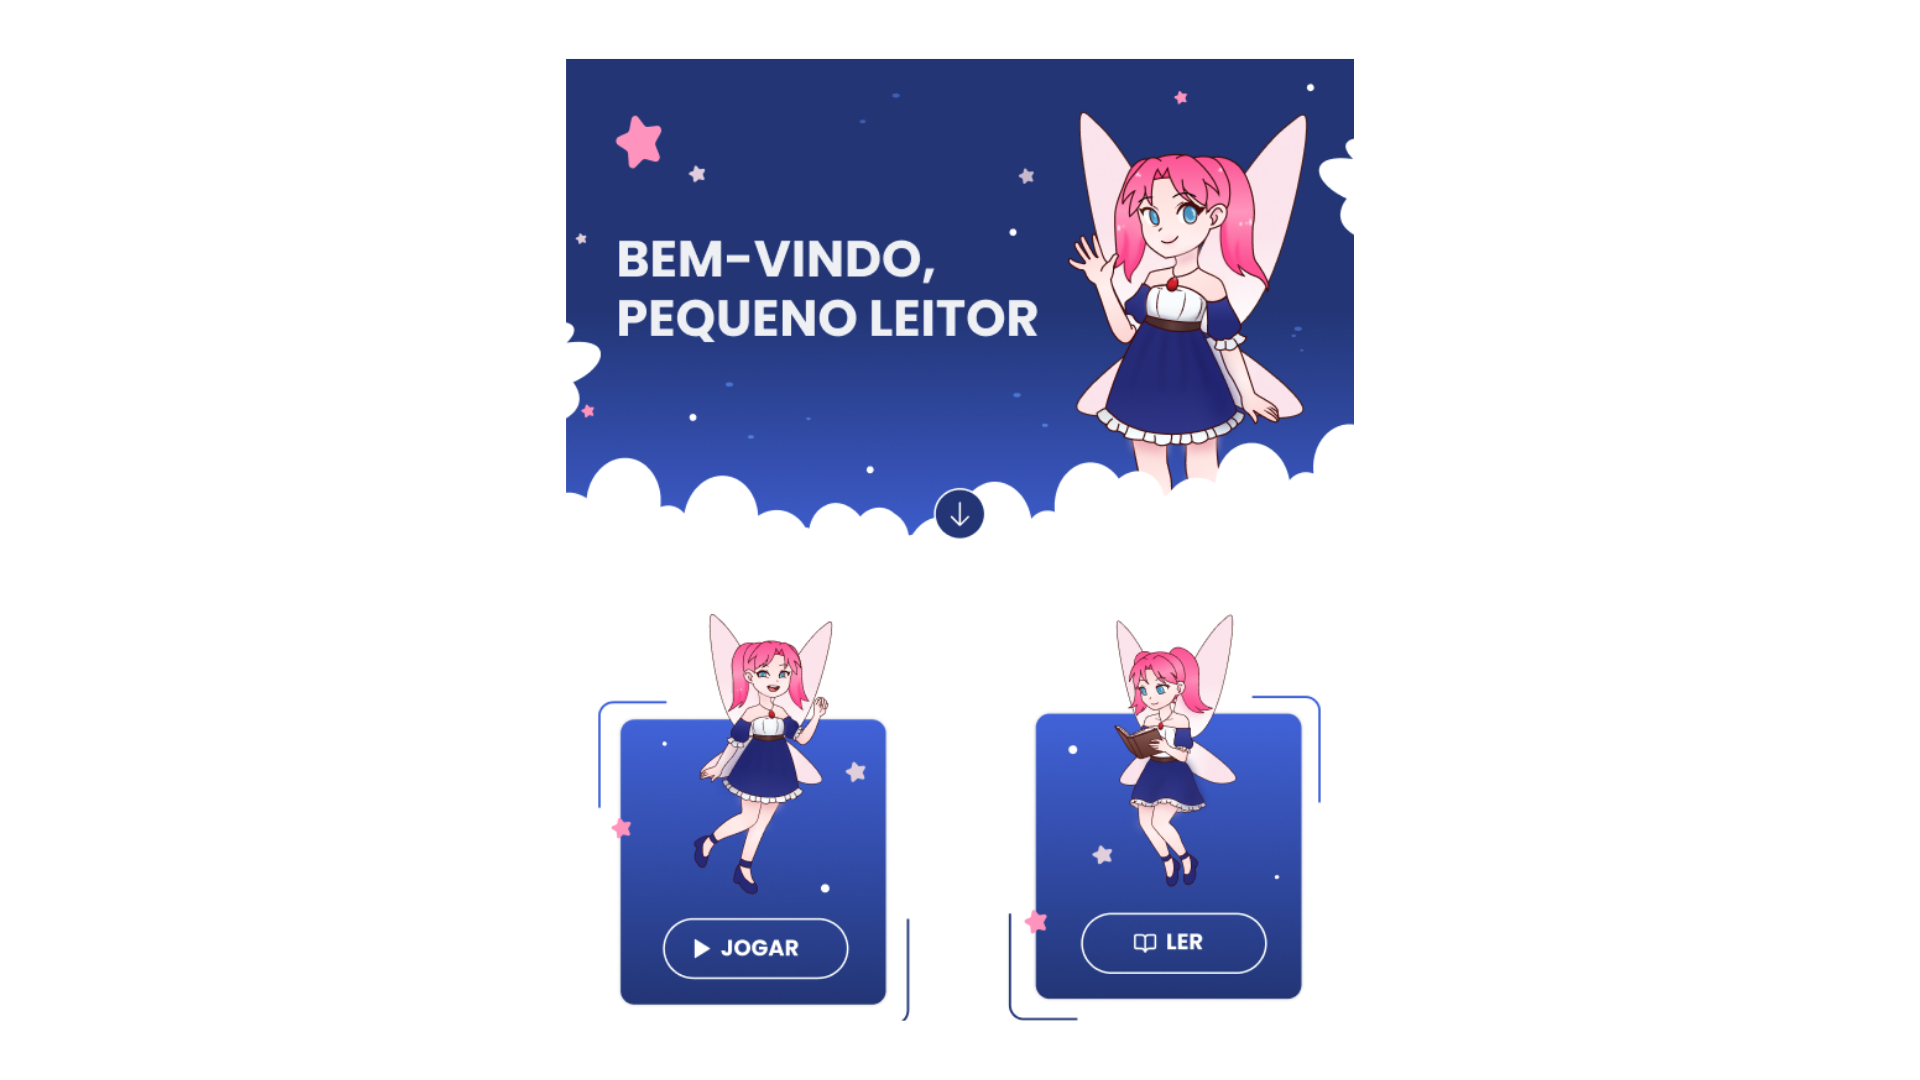
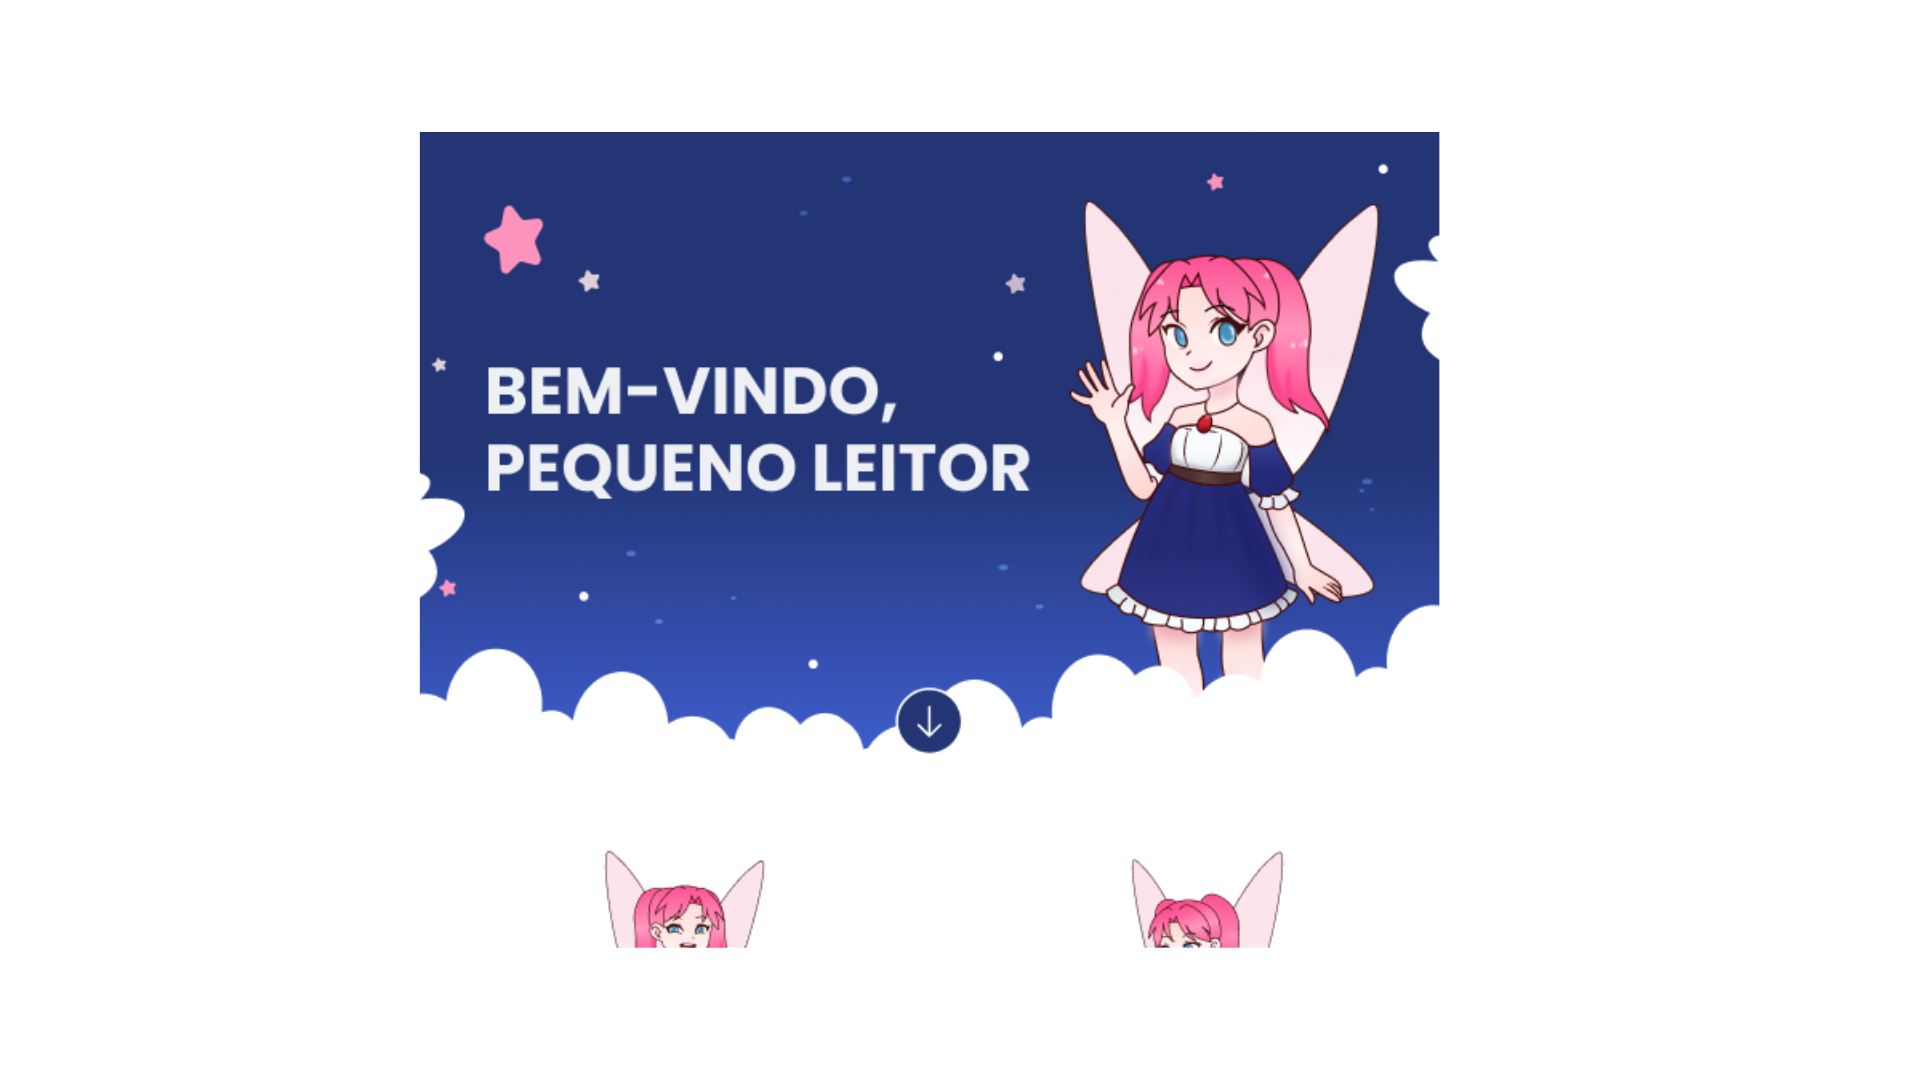
25/03

diff --git a/portifolio/lib/screens/projetos_screen.dart b/portifolio/lib/screens/projetos_screen.dart
@@ -7,18 +7,14 @@ class ProjetosScreen extends StatefulWidget {
 
 class _ProjetosScreenState extends State<ProjetosScreen> {
   List<Map<String, dynamic>> projetos = [
+    {'nome': 'TCC', 'imagem': 'assets/images/tcc.png', 'curtido': false},
     {
       'nome': 'Servidor de Filmes',
       'imagem': 'assets/images/filmes.png',
       'curtido': false,
     },
     {
-      'nome': 'TCC',
-      'imagem': 'assets/images/tcc.png', 
-      'curtido': false
-    },
-    {
-      'nome': 'Leitura para Crianças',
+      'nome': 'Site para Crianças',
       'imagem': 'assets/images/alice.png',
       'curtido': false,
     },
@@ -34,40 +30,73 @@ class _ProjetosScreenState extends State<ProjetosScreen> {
   Widget build(BuildContext context) {
     return Scaffold(
       appBar: AppBar(
-        title: Text('Projetos'),
+        title: Text('Meus Projetos', style: TextStyle(color: Colors.white)),
         backgroundColor: Color(0xFF0A1F44),
+        centerTitle: false,
+        iconTheme: IconThemeData(color: Colors.white),
       ),
+
       body: ListView.builder(
+        padding: EdgeInsets.all(10),
         itemCount: projetos.length,
         itemBuilder: (context, index) {
-          return Card(
-            margin: EdgeInsets.all(10),
+          final projeto = projetos[index];
+
+          return Container(
+            margin: EdgeInsets.only(bottom: 20),
+            decoration: BoxDecoration(
+              color: Colors.white,
+              borderRadius: BorderRadius.circular(15),
+              boxShadow: [
+                BoxShadow(
+                  color: Colors.black12,
+                  blurRadius: 6,
+                  offset: Offset(0, 3),
+                ),
+              ],
+            ),
+
             child: Column(
+              crossAxisAlignment: CrossAxisAlignment.start,
               children: [
                 // IMAGEM
                 ClipRRect(
-                  borderRadius: BorderRadius.vertical(top: Radius.circular(8)),
+                  borderRadius: BorderRadius.vertical(top: Radius.circular(15)),
                   child: Image.asset(
-                    projetos[index]['imagem'],
-                    height: 150,
-                    width: double.infinity,
-                    fit: BoxFit.cover,
+                    projeto['imagem'],
+                    width: MediaQuery.of(context).size.width * 0.95,
+                    fit: BoxFit.fitWidth,
                   ),
                 ),
 
-                //TEXTO + LIKE
-                ListTile(
-                  title: Text(projetos[index]['nome']),
-                  trailing: IconButton(
-                    icon: Icon(
-                      projetos[index]['curtido']
-                          ? Icons.favorite
-                          : Icons.favorite_border,
-                      color: projetos[index]['curtido']
-                          ? Colors.red
-                          : Colors.grey,
-                    ),
-                    onPressed: () => toggleLike(index),
+                // CONTEÚDO
+                Padding(
+                  padding: EdgeInsets.symmetric(horizontal: 12, vertical: 8),
+                  child: Row(
+                    mainAxisAlignment: MainAxisAlignment.spaceBetween,
+                    children: [
+                      // TÍTULO
+                      Expanded(
+                        child: Text(
+                          projeto['nome'],
+                          style: TextStyle(
+                            fontSize: 18,
+                            fontWeight: FontWeight.bold,
+                          ),
+                        ),
+                      ),
+
+                      // CURTIR
+                      IconButton(
+                        icon: Icon(
+                          projeto['curtido']
+                              ? Icons.favorite
+                              : Icons.favorite_border,
+                          color: projeto['curtido'] ? Colors.red : Colors.grey,
+                        ),
+                        onPressed: () => toggleLike(index),
+                      ),
+                    ],
                   ),
                 ),
               ],

diff --git a/portifolio/lib/screens/sobre_mim_screen.dart b/portifolio/lib/screens/sobre_mim_screen.dart
@@ -25,7 +25,7 @@ class SobreMimScreen extends StatelessWidget {
             // FOTO
             Center(
               child: Container(
-                padding: EdgeInsets.all(3), // espessura da borda
+                padding: EdgeInsets.all(3), 
                 decoration: BoxDecoration(
                   shape: BoxShape.circle,
                   border: Border.all(color: Color(0xFF0A1F44), width: 2),
